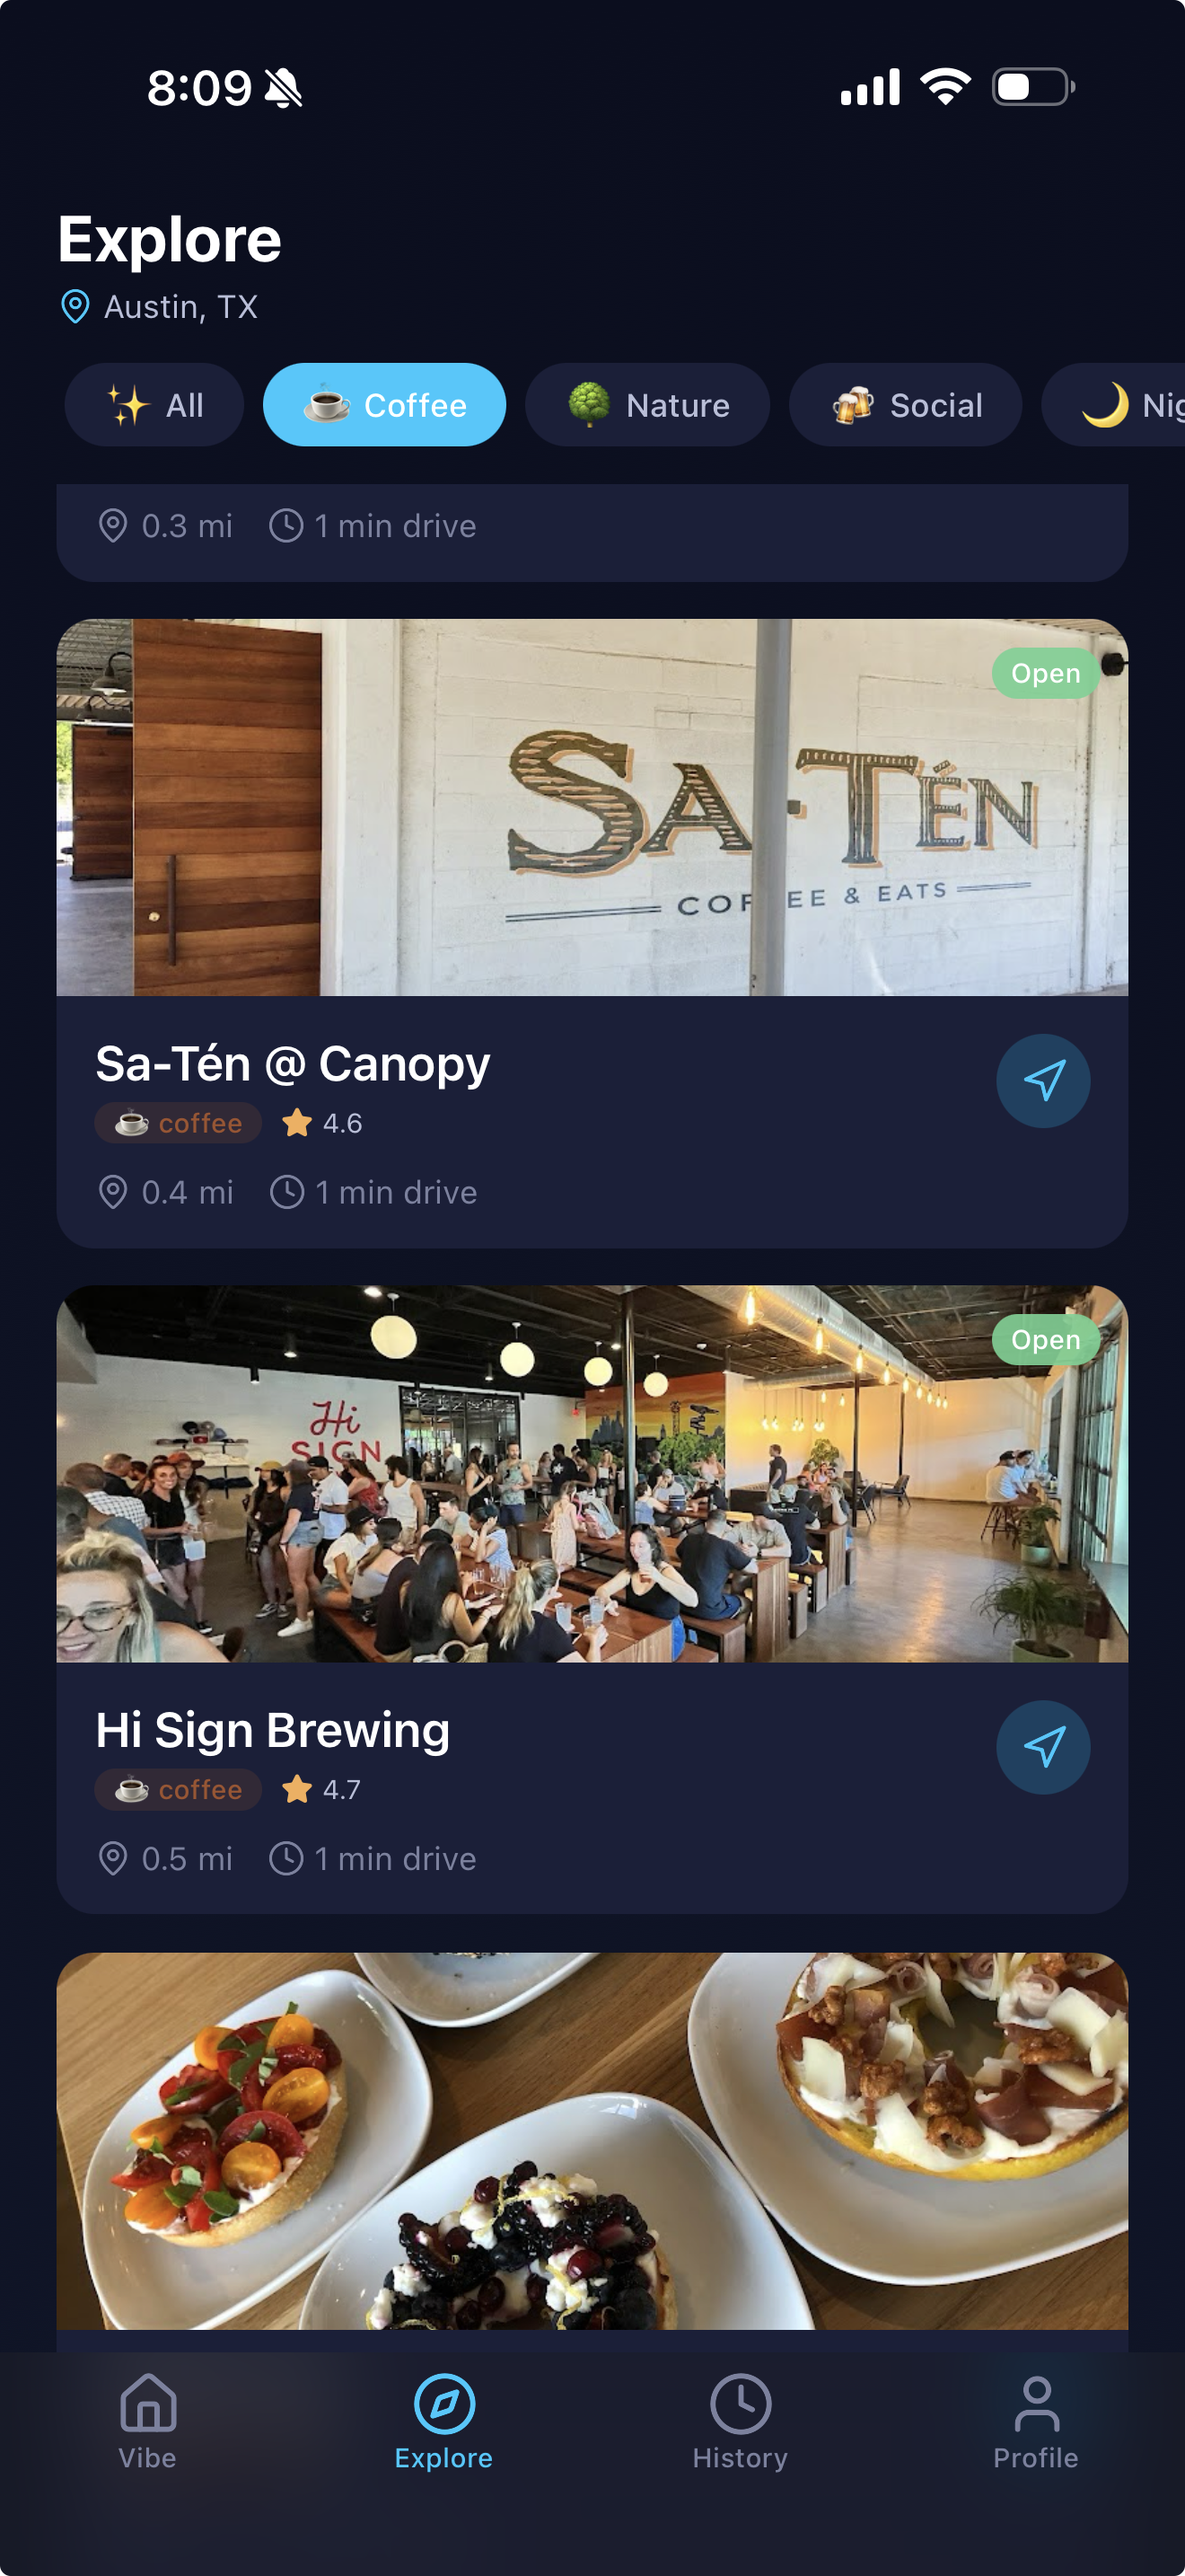
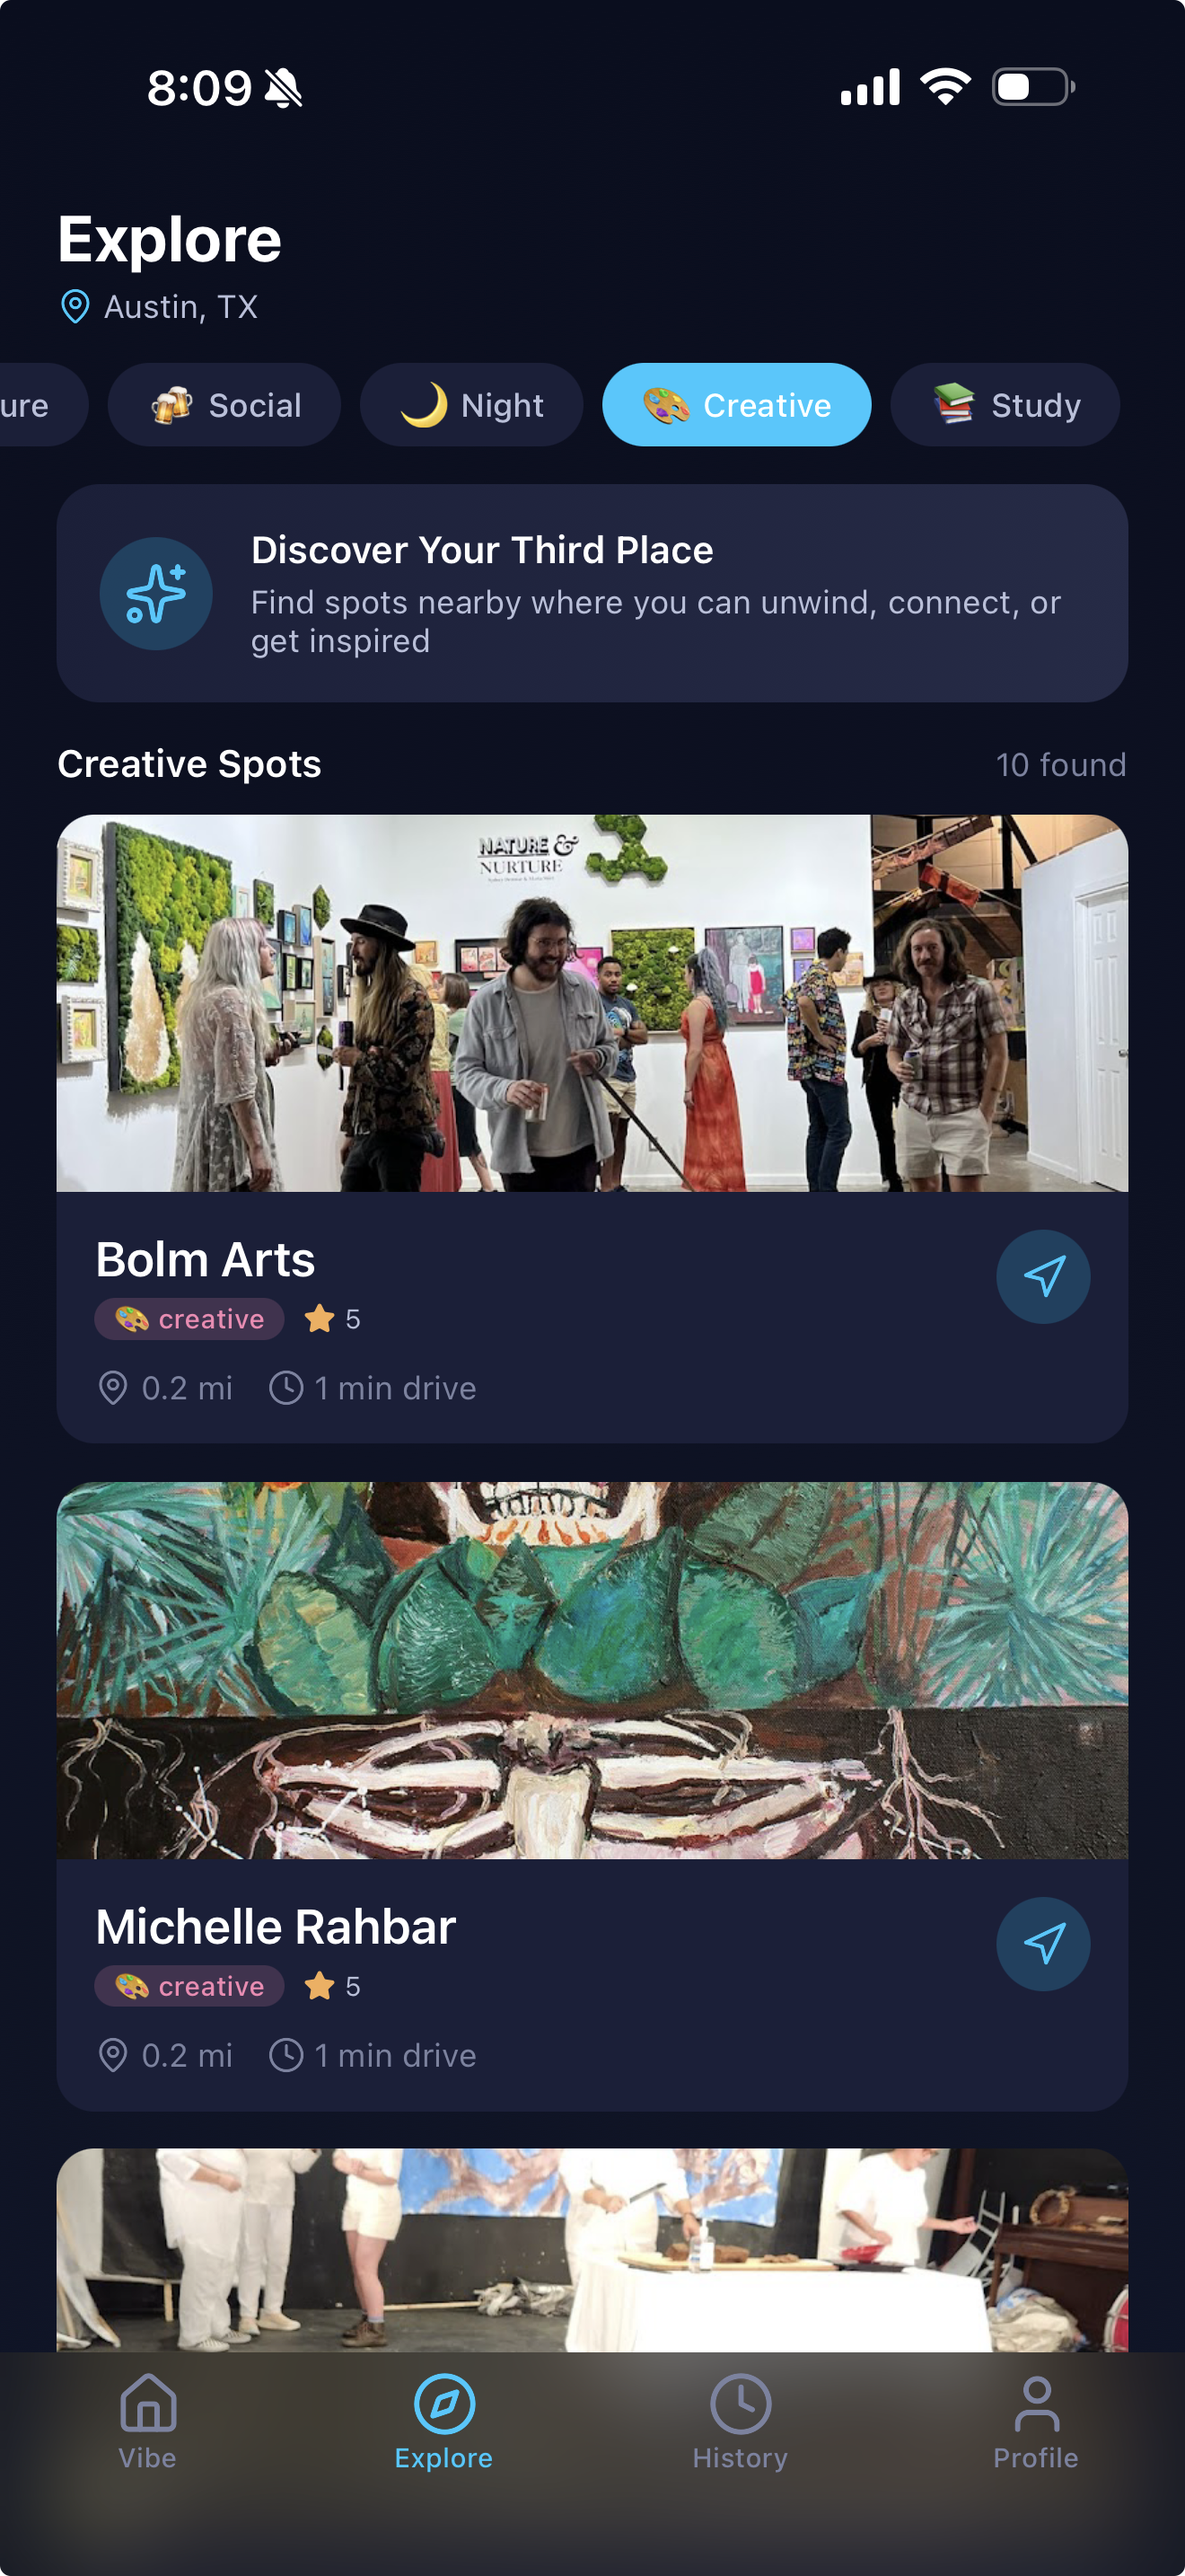
update screenshots

diff --git a/src/components/hero/HeroSection.jsx b/src/components/hero/HeroSection.jsx
@@ -3,8 +3,8 @@ import { motion } from "framer-motion";
 import { AppStoreBadge } from "@/components/shared/AppStoreBadge";
 import { shimmer } from "@/utils/styles";
 import homePageScreenshot from "@/assets/screenshots/home-page.png";
-import vibePageScreenshot from "@/assets/screenshots/vibe-page.png";
-import lastScreenshot from "@/assets/screenshots/last-screenshot.png";
+import checkInPageScreenshot from "@/assets/screenshots/check-in-page.png";
+import explorePageScreenshot from "@/assets/screenshots/explore-page.png";
 import { img } from "framer-motion/client";
 // Add new screenshots here by importing them, then add to the screenshots array below
 // Example: import secondScreenshot from "@/assets/screenshots/second-page.png";
@@ -26,12 +26,12 @@ export function HeroSection({ rating, matches }) {
       alt: "ThirdSpace app home page"
     },
     {
-      image: vibePageScreenshot, // Replace with your second screenshot
-      alt: "ThirdSpace app vibe page"
+      image: checkInPageScreenshot,
+      alt: "ThirdSpace app check-in page"
     },
     {
-      image: lastScreenshot, // Replace with your third screenshot
-      alt: "ThirdSpace app last screenshot (temporary)"
+      image: explorePageScreenshot, 
+      alt: "ThirdSpace app explore page"
     }
   ];
   return (
